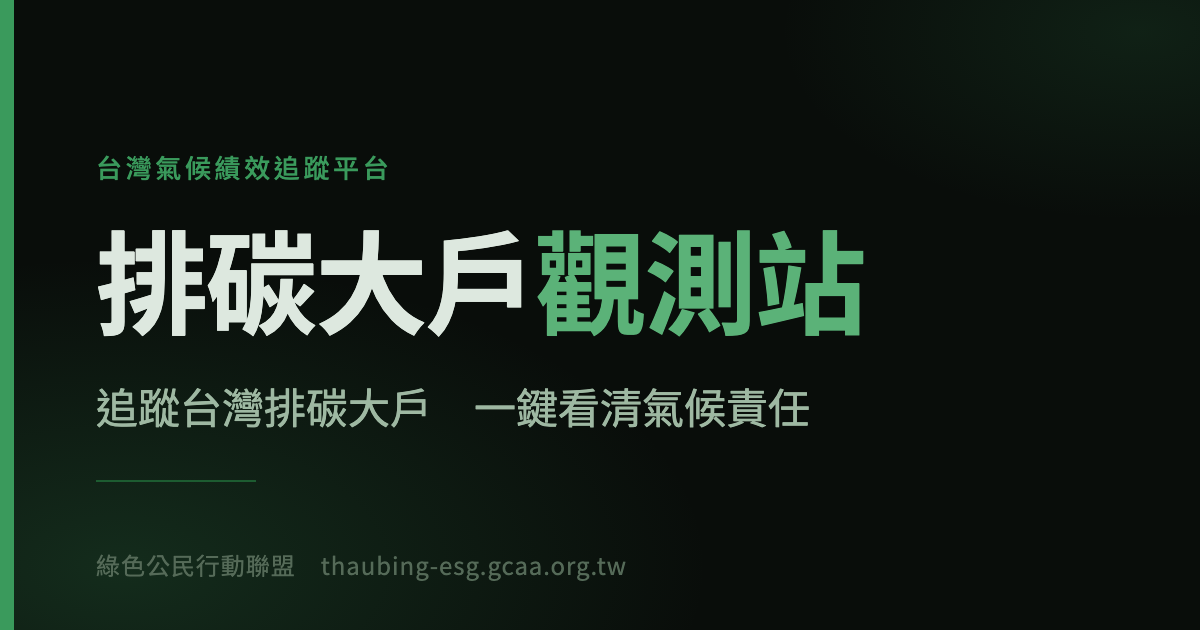
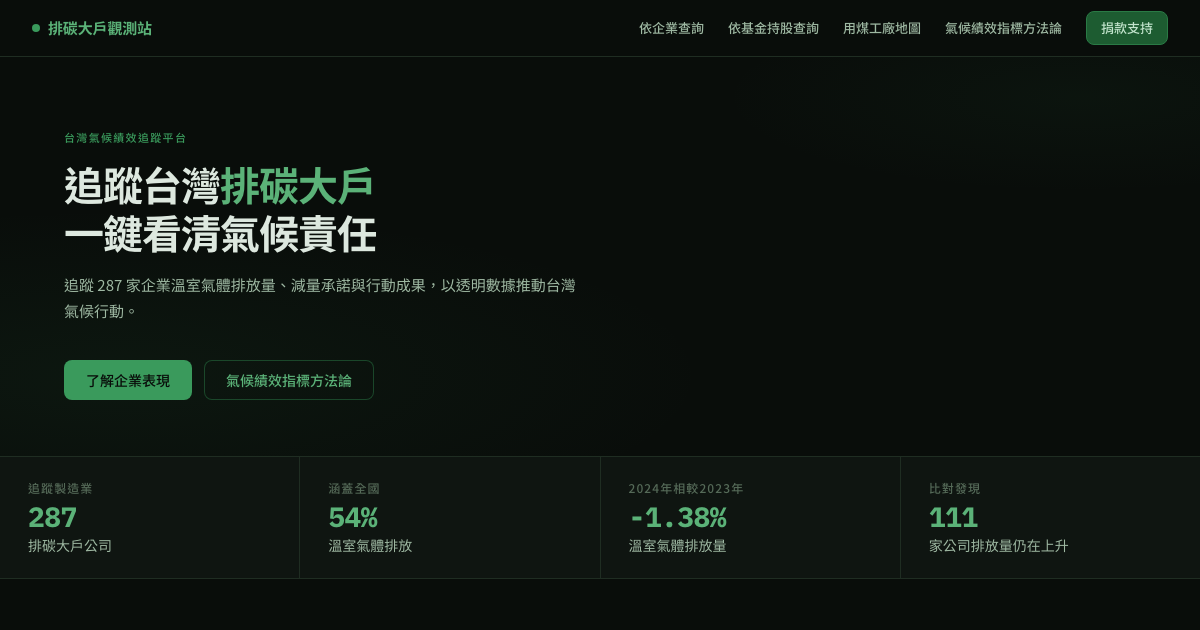
fix: cite coal data sources, use homepage screenshot for share image

diff --git a/app/components/CoalMapSection.vue b/app/components/CoalMapSection.vue
@@ -481,10 +481,10 @@ const isStreetLevel = (f: CoalMapFactory) => f.座標來源.startsWith('OSM')
     <div class="max-w-3xl text-sm text-earth-brown/70 leading-relaxed flex flex-col gap-2 mb-8">
       <h2 class="text-lg font-bold text-green-mint">資料說明</h2>
       <p>
-        用煤量來自各縣市政府生煤使用許可申報資料（綠色公民行動聯盟彙整）。地圖僅呈現所選年度有申報數值的工廠；表格中「—」表示該廠當年無申報數值，可能為停用或未申報，本站不逕行判定為已停用。
+        用煤量來自環境部「燃料季用量申報資料」（綠色公民行動聯盟彙整）。地圖僅呈現所選年度有申報數值的工廠；表格中「—」表示該廠當年無申報數值，可能為停用或未申報，本站不逕行判定為已停用。
       </p>
       <p>
-        廠區位置以環境部「環境保護許可管理系統對象基本資料」（依管制編號）之座標為準；標示「＊」之工廠該資料集無座標，改以登記地址之街道級定位，非精確廠址。
+        廠區位置以環境部「環境保護許可管理系統(暨解除列管)對象基本資料」（依管制編號）之座標為準；標示「＊」之工廠該資料集無座標，改以 OpenStreetMap 依登記地址進行街道級定位，非精確廠址。
       </p>
       <p>
         關心所在縣市的氣候治理？前往<a

diff --git a/app/app.vue b/app/app.vue
@@ -14,7 +14,7 @@ useSeoMeta({
   ogImage: `${SITE_URL}/og-default.png`,
   ogImageWidth: 1200,
   ogImageHeight: 630,
-  ogImageAlt: `${SITE_NAME}：追蹤台灣排碳大戶，一鍵看清氣候責任`,
+  ogImageAlt: `${SITE_NAME}首頁：追蹤台灣排碳大戶，一鍵看清氣候責任`,
   twitterCard: 'summary_large_image',
 })
 

diff --git a/progress.md b/progress.md
@@ -125,9 +125,16 @@
 - 瀏覽器（Playwright，本機伺服器）23 項檢查：首頁統計 287／111、查看更多企業連結、分級標準區塊；方法論無「能效進步率」；清單縣市註記、NA 註記、中華凸版 NA 與六欄「—」、專業版排序 NA 在最後；企業頁全名、淨零年度 NA、霧化雷達圖、碳費「元」與註記、雷達軸名兩行、中鋼 2025 年 5,371,255 公噸且歷年圖只有 2023–2025、菱生單一長條、金元福「2024 年不在排碳大戶名單」；基金頁證券代號欄與排序、名稱加統編、0055／00730 不可點且頁面回 404、標籤配色、境內發行、資料年份註記；燃煤地圖年度切換（2025：56 家／73 座／2,258 萬公噸；2024：58／80／2,300；2023：61／86／2,310）、中鋼中龍在 2025 前十大、表格 86 座、滾輪不縮放、詳情卡三年表格。
 - 驗證中發現並修正：燃煤地圖手機版水平捲動（螢幕閱讀器文字跑出捲動容器）；詳情卡按鈕箭頭圖示在靜態站會向不存在的 API 取圖（原本就有的問題，改為建置時打包圖示，新增 @iconify-json/heroicons）；已不連結的基金頁在瀏覽器仍顯示內容（改為一律 404）。
 
-## 未決
+## 後續（2026-10-15，使用者指示「還沒做的都動」）
 
-- 燃料季申報資料_20261014 尚未接入（需團隊改「排碳大戶觀測站_raw_data」的匯入來源後重跑）。
-- 第 32 列（免責聲明資料來源）不在本次範圍。
-- 企業頁頁首「較去年下降」不論升降都是紅字（原有樣式，未列入表格）。
-- 預設分享圖 public/og-default.png 為暫用，待品存 logo。
+- 燃料季申報資料改用 20261014 版：資料鏈中唯一的人工貼值分頁是 燃料季申報資料_20260302 的「總表_0319_去非煤&重複」，其餘（依廠計算、用煤者-含鋼鐵、地圖輸出_燃煤工廠、排碳大戶觀測站_raw_data、Sheet B）都以公式往下接，因此只替換這一頁，不改任何匯入公式。
+  - 先複製原分頁為「總表_0319_去非煤&重複_存檔20261015」。
+  - 新資料取自 燃料季申報資料_20261014 的「總表_1014_保留煤」（7,294 列），依 cno＋yyyyq＋eno＋fname＋ysqty 去重保留第一筆，得 7,096 列（舊版同一規則去重，兩張許可證重複申報同一筆）。
+  - 公司（D）、yyyy（G）、煤（N）、比對值（S）寫回原公式；燃料代碼等文字欄以原樣寫入，保留前導 0。
+  - 台化龍德廠（G3700791）新版寫作「臺灣化學纖維」，下游以公司名加總，公司欄改填「台灣化學纖維股份有限公司」。
+  - 下游變動：地圖輸出 22 座工廠數值改變，例如長春石化大發廠 2025 年 0 → 226,630、潤泰冬山廠 2024 年 83,902 → 155,389；其餘為小數差異。用煤者-含鋼鐵的「歷年總額」因新版含 2026 上半年而增加，該欄未傳到網站。
+  - 依廠計算、用煤者-含鋼鐵中鋼與中龍的人工數值未動；網站另以鋼鐵業用煤試算表覆蓋。
+  - 從 Sheet B 重新抓 VIII、XVI 兩頁（格式與 download-raw-data.ts 相同），重跑 rebuild-data：只有用煤相關欄位改變。燃煤地圖 2025 年：56 家／75 座／2,287 萬公噸；2024 年：58／80／2,308；2023 年：61／86／2,310。
+- 第 32 列：免責聲明補列環境部「環境保護許可管理系統(暨解除列管)對象基本資料」（EMS_S_01）與 OpenStreetMap，碳排與燃煤用量來源寫明「溫室氣體年排放量」與「燃料季用量申報資料」；燃煤地圖資料說明改為燃料季用量申報資料，座標來源寫完整資料集名稱並註明 OpenStreetMap。
+- 分享圖：依使用者要求改用首頁截圖（1200×630，本機建置版）。截圖中的統計數字不會隨資料更新。
+- 企業頁頁首「較去年下降」紅字：使用者確認維持。

diff --git a/content/terms-of-service.md b/content/terms-of-service.md
@@ -20,6 +20,7 @@ title: 免責聲明與資料來源
 *	公開資訊觀測站
 *	基金資訊觀測站
 *	企業永續報告書
+*	OpenStreetMap
 *	經上述資料運算後之數據
 
 上述所有資料來源均為一般大眾可自行存取的開放資料，本網站僅進行資料彙整、計算與再應用，並未修改任何原始數據及資料，資料正確性由原始提供者負責。
@@ -30,6 +31,7 @@ title: 免責聲明與資料來源
 *  <a href="https://data.moenv.gov.tw/dataset/detail/GHG_P_02" target="_blank">國家溫室氣體排放清冊報告</a>
 *  <a href="https://data.moenv.gov.tw/dataset/detail/AQX_P_555" target="_blank">燃料季用量申報資料</a>
 *  <a href="https://data.moenv.gov.tw/dataset/detail/EMS_P_08" target="_blank">各工廠空氣污染物排放資料</a>
+*  <a href="https://data.moenv.gov.tw/dataset/detail/EMS_S_01" target="_blank">環境保護許可管理系統(暨解除列管)對象基本資料</a>
 
 經濟部國際貿易署：
 *  <a href="https://www.greentrade.org.tw/content/%E8%87%BA%E7%81%A3%E5%9C%8B%E9%9A%9B%E6%B8%9B%E7%A2%B3%E5%80%A1%E8%AD%B0%E5%8F%83%E8%88%87%E4%BC%81%E6%A5%AD%E5%B9%B3%E5%8F%B0" target="_blank">臺灣加入國際減碳倡議企業動態儀表板</a>
@@ -45,8 +47,12 @@ title: 免責聲明與資料來源
 *  <a href="https://mopsov.twse.com.tw/mops/web/t78sb35_new" target="_blank">國內成分股ETF每季持股明細表</a>
 
 ### 基金資訊觀測站資料：
-本網站之基金持股明細以投信投顧公會（中華民國證券投資信託暨顧問商業同業公會）季報為準，ESG 基金名單則取自 FundClear 基金資訊觀測站；各企業碳排放與燃煤用量另以前述環境部年度申報資料計算。
+本網站之基金持股明細以投信投顧公會（中華民國證券投資信託暨顧問商業同業公會）季報為準，ESG 基金名單則取自 FundClear 基金資訊觀測站；各企業碳排放與燃煤用量另以前述環境部「溫室氣體年排放量」與「燃料季用量申報資料」計算。
 *  <a href="https://www.fundclear.com.tw/etf/product" target="_blank">基金營運資料－國內成分股ETF名單</a>
+
+### OpenStreetMap：
+用煤工廠地圖中，環境部資料集未提供座標的工廠，以 OpenStreetMap 依登記地址進行街道級定位。
+*  <a href="https://www.openstreetmap.org/copyright" target="_blank">© OpenStreetMap 貢獻者</a>
 
 
 ### 企業永續報告書資料使用說明：
